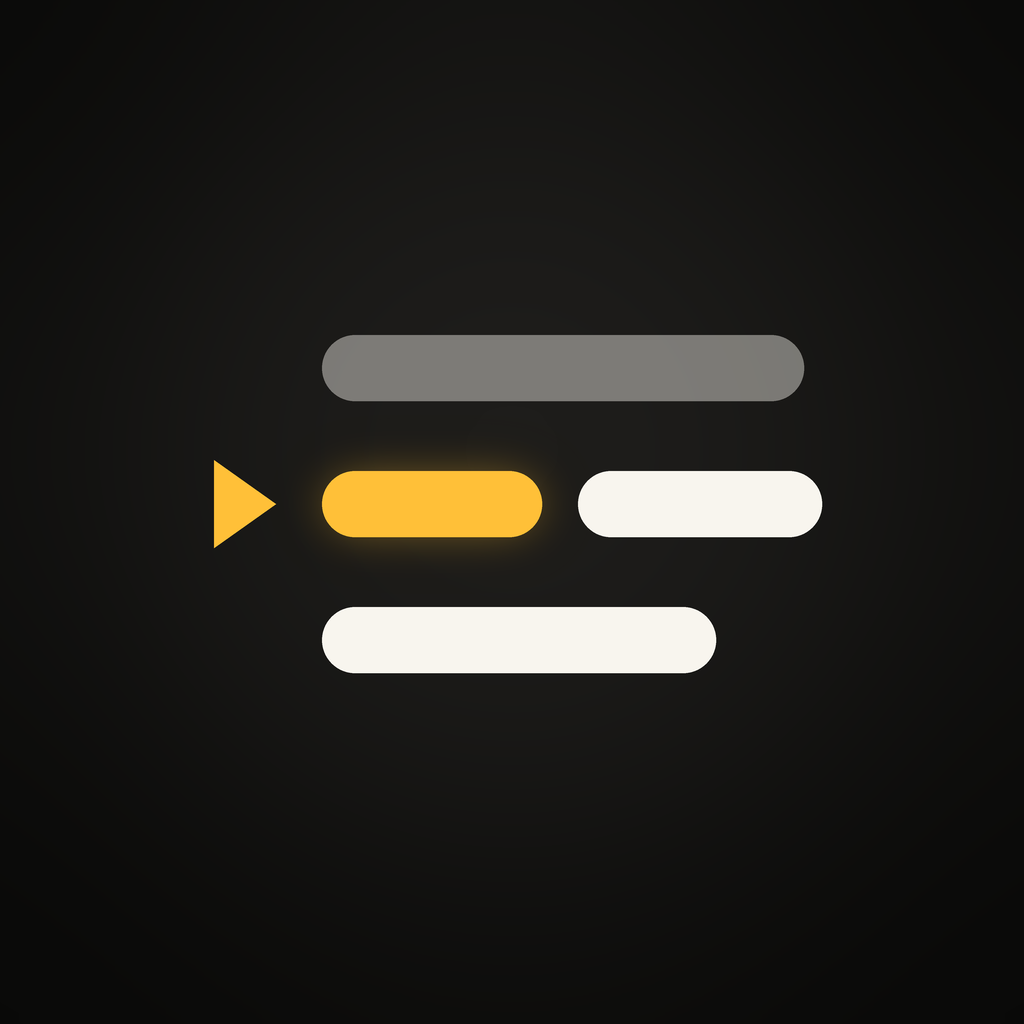
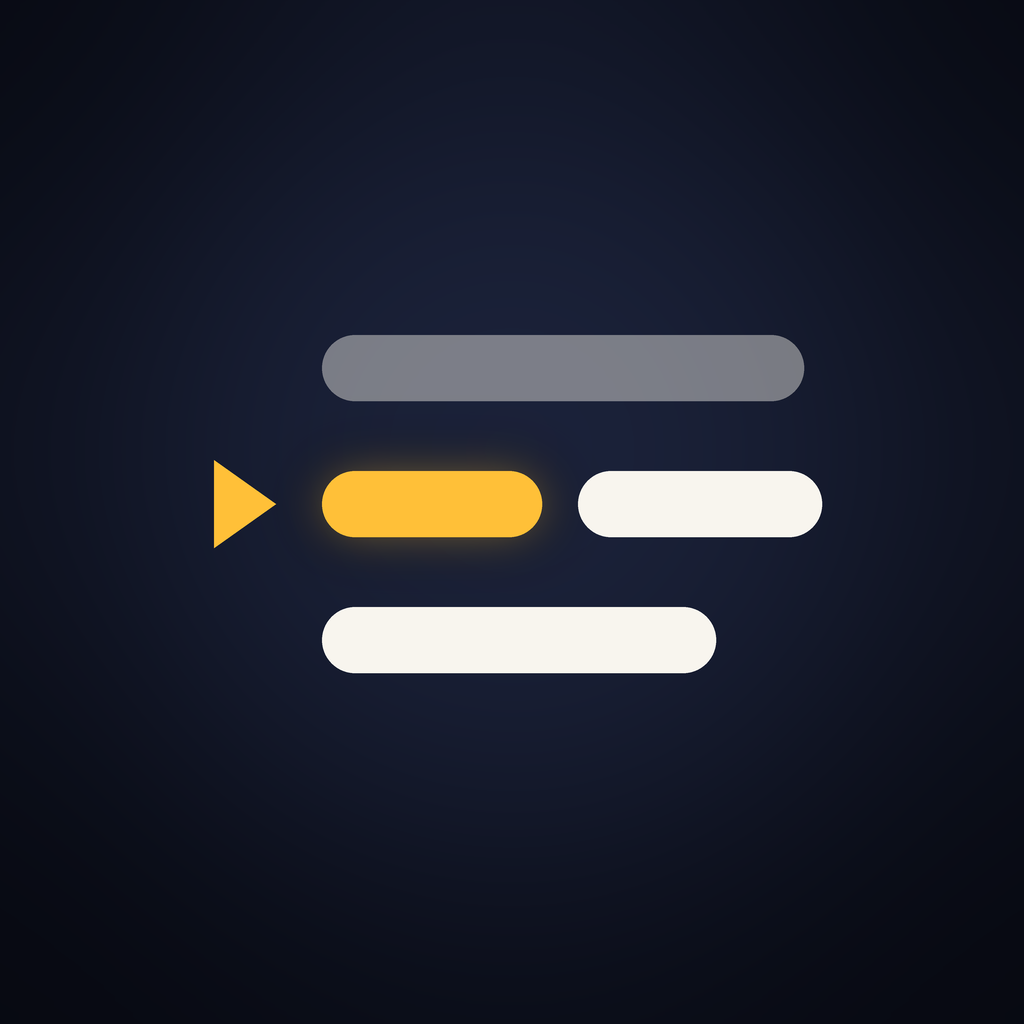
Dark navy palette, cleaner script list; build 1.0.0 (2026111102)
- Deep navy surfaces (darker than the original blue) in the app, Vompt
  Studio and the app icon; text and contrast unchanged
- Remove the tip line from the bottom of the script list
- Build 2026111102 for the App Store

Changed region(s): [[0.1875, 0.125, 0.8125, 0.75]]

diff --git a/vompt/lib/core/constants/colors.dart b/vompt/lib/core/constants/colors.dart
@@ -5,23 +5,23 @@ import 'package:material_ui/material_ui.dart';
 /// Color always carries meaning here: tally red means the mic is live,
 /// cue amber marks where the reader is. Neither is used as decoration.
 class AppColors {
-  /// Warm graphite: near-black with no blue cast. App surfaces.
-  static const Color ink = Color(0xFF131312);
+  /// Deep navy, nearly black: the studio after dark. App surfaces.
+  static const Color ink = Color(0xFF0D111C);
 
   /// Raised surfaces: sheets, fields, menus.
-  static const Color raised = Color(0xFF1F1E1C);
+  static const Color raised = Color(0xFF161B29);
 
   /// A step above raised: pressed rows, selected items, inputs on sheets.
-  static const Color raisedHigh = Color(0xFF2A2926);
+  static const Color raisedHigh = Color(0xFF1E2434);
 
   /// Hairlines and quiet borders.
-  static const Color line = Color(0xFF363430);
+  static const Color line = Color(0xFF2A3143);
 
   /// Reading text: a warm white that is easier on the eyes than #FFF.
   static const Color paper = Color(0xFFF2EFE8);
 
-  /// Secondary text and inactive icons (about 6.9:1 on ink).
-  static const Color muted = Color(0xFFA09B92);
+  /// Secondary text and inactive icons (about 6.4:1 on ink).
+  static const Color muted = Color(0xFF8F97AA);
 
   /// Tally light: the mic is listening.
   static const Color tally = Color(0xFFF2493B);

diff --git a/vompt/lib/features/documents/screens/document_list_screen.dart b/vompt/lib/features/documents/screens/document_list_screen.dart
@@ -298,17 +298,6 @@ class _DocumentListScreenState extends State<DocumentListScreen> {
                       : row;
                 },
               ),
-            if (docs.isNotEmpty)
-              SliverToBoxAdapter(
-                child: Padding(
-                  padding: const EdgeInsets.fromLTRB(32, 20, 32, 0),
-                  child: Text(
-                    'Tip: press and hold a script, or tap \u2026, to rehearse, see versions, rename or duplicate. Swipe left to delete.',
-                    textAlign: TextAlign.center,
-                    style: Theme.of(context).textTheme.bodySmall,
-                  ),
-                ),
-              ),
             const SliverToBoxAdapter(child: SizedBox(height: 120)),
           ],
         ),

diff --git a/vompt/lib/main.dart b/vompt/lib/main.dart
@@ -11,9 +11,9 @@ Future<void> main() async {
   // Set system UI to dark immediately
   SystemChrome.setSystemUIOverlayStyle(
     const SystemUiOverlayStyle(
-      statusBarColor: Color(0xFF131312),
+      statusBarColor: Color(0xFF0D111C),
       statusBarIconBrightness: Brightness.light,
-      systemNavigationBarColor: Color(0xFF131312),
+      systemNavigationBarColor: Color(0xFF0D111C),
       systemNavigationBarIconBrightness: Brightness.light,
     ),
   );

diff --git a/vompt/assets/web/index.html b/vompt/assets/web/index.html
@@ -13,12 +13,12 @@
   font-display: swap;
 }
 :root {
-  --ink: #131312;
-  --raised: #1F1E1C;
-  --raised-2: #2A2926;
-  --line: #363430;
+  --ink: #0D111C;
+  --raised: #161B29;
+  --raised-2: #1E2434;
+  --line: #2A3143;
   --paper: #F2EFE8;
-  --muted: #A09B92;
+  --muted: #8F97AA;
   --tally: #F2493B;
   --cue: #FFC24A;
   --on-cue: #1C1607;

diff --git a/tools/marketing.py b/tools/marketing.py
@@ -25,12 +25,12 @@ OUT = ROOT / "store/marketing"
 FONTS = ROOT / "vompt/assets/fonts"
 STUDIO = ROOT / "docs/images/studio-live.png"
 
-INK = (19, 19, 18)
-INK_LIFT = (38, 36, 33)
-RAISED = (31, 30, 28)
-LINE = (54, 52, 48)
+INK = (13, 17, 28)
+INK_LIFT = (28, 36, 58)
+RAISED = (22, 27, 41)
+LINE = (42, 49, 67)
 PAPER = (242, 239, 232)
-MUTED = (160, 155, 146)
+MUTED = (143, 151, 170)
 CUE = (255, 194, 74)
 
 # (scene, headline, subline). Order follows the pitch.

diff --git a/tools/make_icon.py b/tools/make_icon.py
@@ -8,8 +8,8 @@ from PIL import Image, ImageDraw, ImageFilter
 
 S = 4096                      # supersample, downscaled to 1024 at the end
 k = S / 1024
-INK_CENTER = (30, 29, 27)     # lifted graphite at the center
-INK_EDGE = (9, 9, 8)
+INK_CENTER = (27, 34, 58)     # lifted navy at the center
+INK_EDGE = (7, 9, 17)
 PAPER = (248, 245, 238)
 CUE = (255, 192, 56)
 TALLY = (242, 73, 59)
